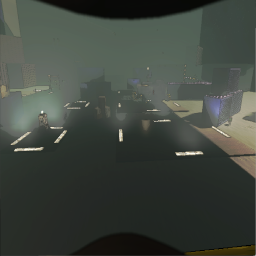
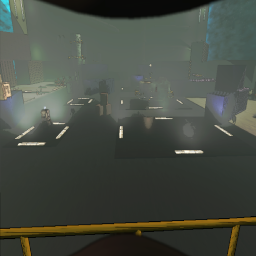
1.0.0

diff --git a/CHANGELOG.md b/CHANGELOG.md
@@ -1,6 +1,16 @@
 
 ---
 
+**<details><summary>Version 1.0.0</summary>**
+
+ - Updated README.
+ - Visual enhancements.
+ - Unique orbit prefab.
+
+</details>
+
+---
+
 **<details><summary>Version 0.1.11</summary>**
 
  - Added Universal Radar as a dependency because I forgot to do it earlier.

diff --git a/README.md b/README.md
@@ -21,6 +21,7 @@ Adds an abandoned starship to Lethal Company. ([Discord link](https://discord.co
 
 
 ## Credits
+- Zeekerss for developing the game.
 - [Water asset](https://assetstore.unity.com/packages/2d/textures-materials/water/simple-water-shader-urp-191449)
 - Voxx for [TerraMesh](https://discord.com/channels/1168655651455639582/1303914349533990983) tool.
 - The developers of this mod's dependencies as it literally could not exist without them.
@@ -30,3 +31,4 @@ Adds an abandoned starship to Lethal Company. ([Discord link](https://discord.co
 - Debugging tools like [Imperium](https://thunderstore.io/c/lethal-company/p/giosuel/Imperium/) and [UnityExplorer](https://thunderstore.io/c/lethal-company/p/LethalCompanyModding/Yukieji_UnityExplorer/).
 - Thunderstore for hosting this mod as I wouldn't know how to distribute without it.
 - [Space skybox](https://tools.wwwtyro.net/space-3d/index.html#animationSpeed=1&fov=80&nebulae=true&pointStars=true&resolution=1024&seed=66564767&stars=true&sun=false).
+- [Generic](https://thunderstore.io/c/lethal-company/p/Generic_GMD/), [Beaniebe](https://thunderstore.io/c/lethal-company/p/Beaniebe/), and Teserex for some of the shipping containers.